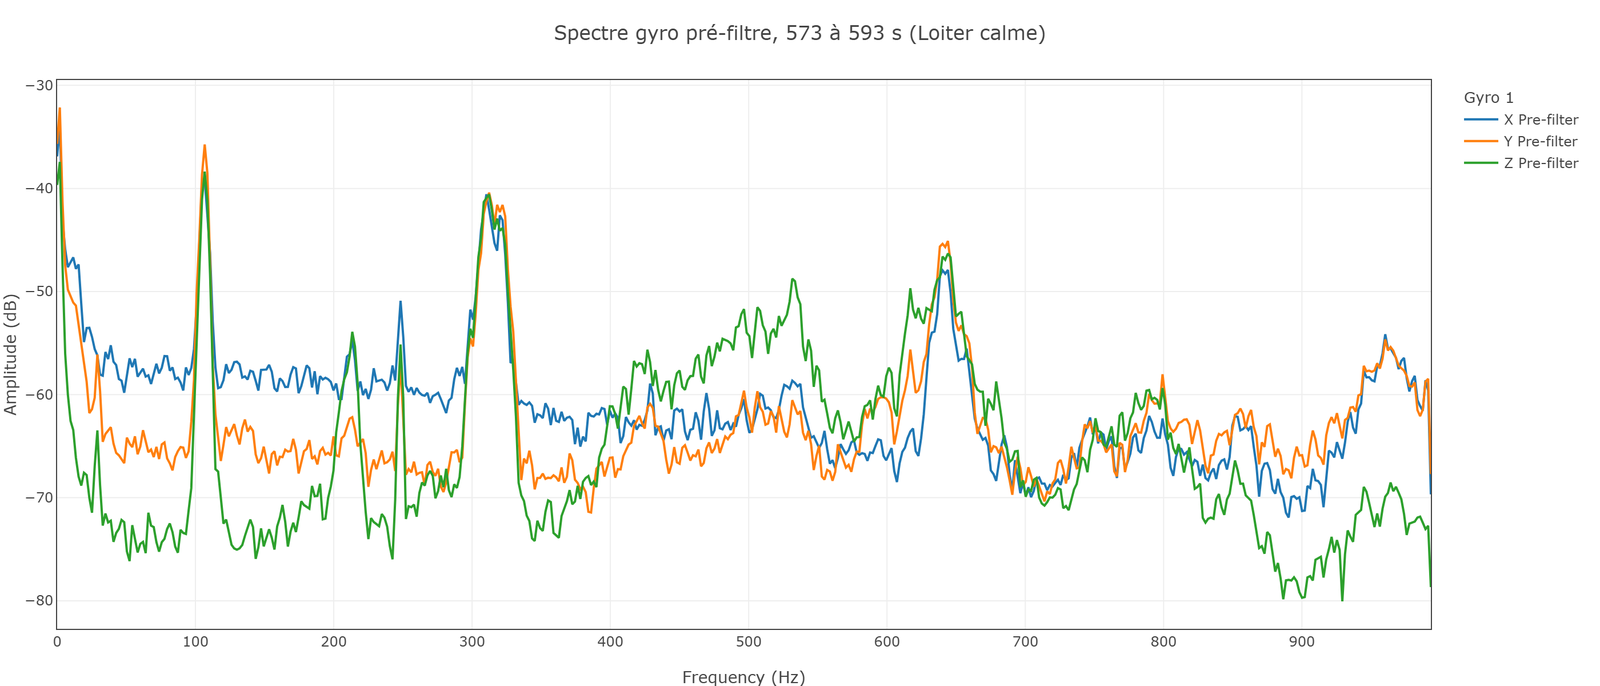
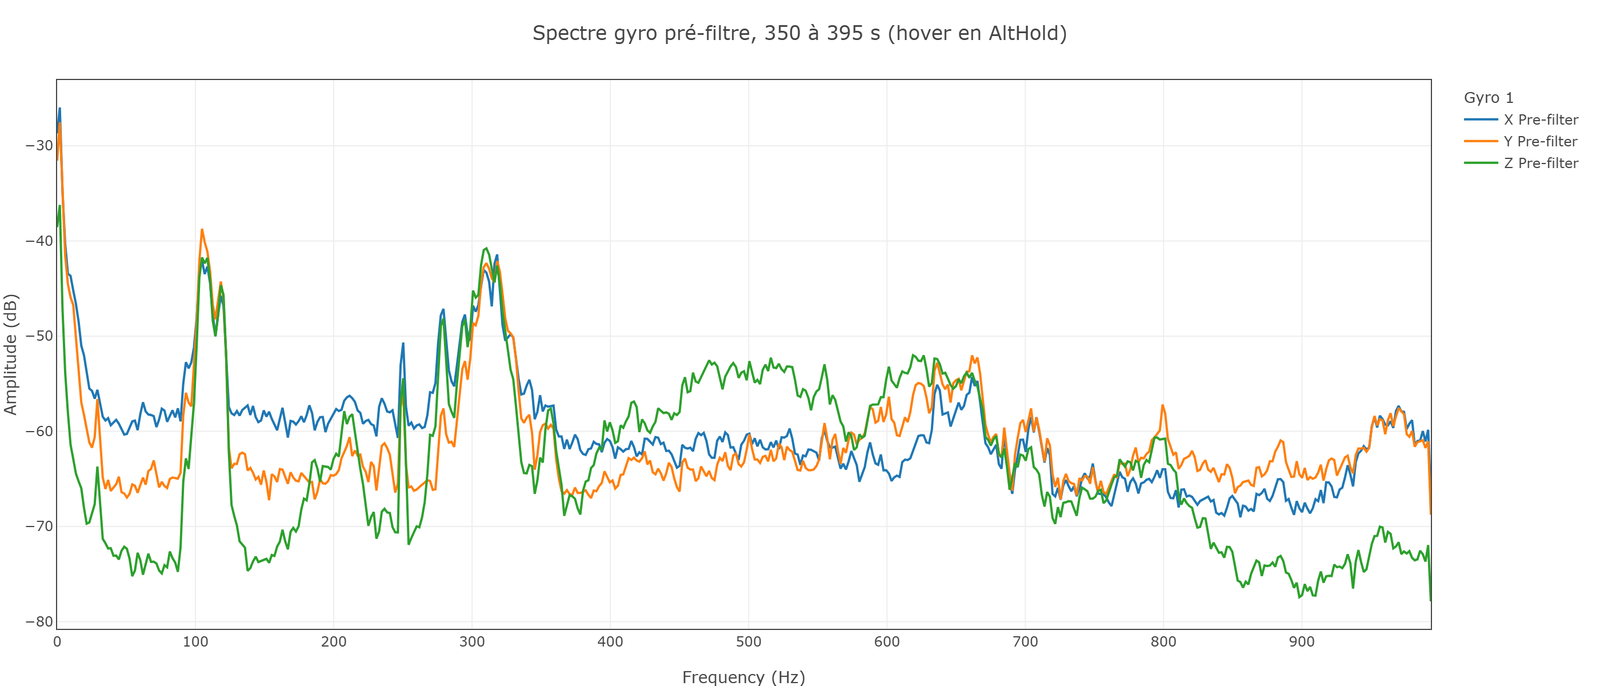
Formation 9 : filtres sur le hover en AltHold (350 à 395 s), plancher du notch à 100 Hz

Changed region(s): [[0.0312, 0.2143, 0.9062, 0.8878], [0.3125, 0.0306, 0.6875, 0.0612]]

diff --git a/9-tuning/9.2-vibrations-et-filtres.md b/9-tuning/9.2-vibrations-et-filtres.md
@@ -27,7 +27,7 @@ Prérequis : la formation 9.1, et en particulier le RPM des moteurs (section 5.3
 
 ## 1 - Pourquoi filtrer, pourquoi pas trop
 
-Les moteurs tournent, les hélices battent l'air, et la structure vibre à la fréquence de rotation et à ses multiples. L'IMU est fixée sur la structure : le gyroscope mesure, en plus de la rotation du drone, un tremblement permanent vers 107 Hz (les moteurs du Crash Proof en hover, 9.1 section 5.3), à ses multiples, plus les résonances du châssis, des fils et des antennes. Sans filtre, le contrôleur de rate prend ce tremblement pour une rotation et essaie de le corriger ; le D, qui réagit à la vitesse de variation, est le plus touché.
+Les moteurs tournent, les hélices battent l'air, et la structure vibre à la fréquence de rotation et à ses multiples. L'IMU est fixée sur la structure : le gyroscope mesure, en plus de la rotation du drone, un tremblement permanent vers 106 Hz (les moteurs du Crash Proof en hover, 9.1 section 5.3), à ses multiples, plus les résonances du châssis, des fils et des antennes. Sans filtre, le contrôleur de rate prend ce tremblement pour une rotation et essaie de le corriger ; le D, qui réagit à la vitesse de variation, est le plus touché.
 
 Mais un filtre n'est pas gratuit. Il lisse le signal, et lisser prend du temps : la mesure filtrée est **en retard** sur la réalité. Ce retard se mesure en degrés de phase. Un drone trop filtré réagit en retard à tout.
 
@@ -47,13 +47,15 @@ Dans Filter Review, une fois le log chargé, la vue d'ensemble montre le throttl
 - **un hover calme**, sans commandes du pilote, throttle constant ;
 - **au moins 20 à 30 secondes**.
 
-Le 27 octobre, la seule portion qui s'en approche est le Loiter de **573 à 593 s** : 20 secondes sans toucher aux sticks, mais entre 1,2 et 2,8 m du sol, là où le souffle des hélices rebondit. C'est le défaut de ce vol, et c'est la première ligne de la liste « ce que le prochain vol doit contenir » : 30 à 40 secondes de hover calme, plus haut.
+Le 27 octobre, la meilleure portion est le hover en AltHold de **350 à 395 s**, juste avant les coups de stick : 45 secondes à 1,5 m, altitude tenue par le contrôleur. Le pilote y fait de petites corrections (les sticks bougent de 50 à 100 µs autour du centre), mais elles ne demandent jamais plus de 20 degrés par seconde : c'est un hover calme. Ce qui compte n'est pas que les sticks soient parfaitement immobiles, c'est qu'aucun mouvement franc ne soit commandé.
+
+Un seul défaut : 1,5 m, c'est près du sol, où le souffle des hélices rebondit. Au prochain vol, on fera le même hover un peu plus haut, à 5 m.
 
 ![Filter Review, vue d'ensemble du vol](images/9.2-01-selection-loiter-calme.png)
 
 Pourquoi le hover ? Parce que Zenith passe l'essentiel de ses vols en hover : c'est là que les vibrations comptent. On centre les filtres sur le hover, et le notch suit le RPM quand il change.
 
-Entrez 573 et 593, cliquez **Calculate**.
+Entrez 350 et 395, cliquez **Calculate**.
 
 ---
 
@@ -61,19 +63,19 @@ Entrez 573 et 593, cliquez **Calculate**.
 
 Trois courbes sont proposées : **pre-filter** (ce que le gyroscope mesure), **post-filter** (ce qui arrive vraiment au contrôleur ; grisé ici, faute du bit post-filtre, 9.1 section 2.3) et **estimated post-filter** (l'effet des filtres calculé par l'outil, très proche du réel). Affichez pre-filter seul.
 
-![Spectre pré-filtre, 573 à 593 s](images/9.2-02-spectre-pre-filtre.png)
+![Spectre pré-filtre, 350 à 395 s](images/9.2-02-spectre-pre-filtre.png)
 
 **Avant de lire la suite : qu'est-ce que vous voyez ?**
 
 <details>
 <summary>Réponse</summary>
 
-- Un pic net vers **107 Hz**, à moins 36 dB : la rotation des moteurs (6 420 tr/min divisés par 60). C'est le RPM de la fiche de santé.
-- Une bosse vers **310 à 320 Hz**, à moins 41 dB : la troisième harmonique (3 × 107 = 321). Les hélices ont trois pales, ou une résonance tombe là.
-- Une bosse vers **640 Hz**, à moins 45 dB : la sixième harmonique, ou le double de la troisième.
-- Des petits pics ailleurs (215, 250 Hz) : fils, tie-wraps, antennes. Pas nécessaire de savoir quoi est quoi.
+- Un pic net vers **105 Hz**, à moins 39 dB : la rotation des moteurs (environ 6 400 tr/min divisés par 60). C'est le RPM de la fiche de santé.
+- Une bosse vers **310 Hz**, à moins 41 dB : la troisième harmonique (3 × 105 = 315). Les hélices ont trois pales, ou une résonance tombe là.
+- Une bosse vers **620 Hz**, à moins 52 dB : déjà sous la cible.
+- Des petits pics ailleurs : fils, tie-wraps, antennes. Pas nécessaire de savoir quoi est quoi.
 
-Ce qui compte : **ce qui dépasse moins 50 dB**. Ici, les trois bosses.
+Ce qui compte : **ce qui dépasse moins 50 dB**. Ici, le pic moteur et sa troisième harmonique.
 
 </details>
 
@@ -90,7 +92,7 @@ Affichez maintenant aussi « estimated post-filter », avec les paramètres du l
 <details>
 <summary>Réponse</summary>
 
-Tout est écrasé sous moins 60 dB, jusqu'à moins 95 au-dessus de 300 Hz. On a retiré bien plus que nécessaire, et on le paie en retard.
+Tout est écrasé : moins 62 dB pour le pic moteur, moins 86 pour l'harmonique, moins 95 au-dessus. On a retiré bien plus que nécessaire, et on le paie en retard.
 
 Le coupable est le **passe-bas gyro** : `INS_GYRO_FILTER` vaut 42 Hz. Un passe-bas coupe tout ce qui est au-dessus de sa fréquence : à 42 Hz, il efface le spectre entier et impose son retard à toutes les fréquences de contrôle. Cette valeur devait passer à 400 Hz après les vols d'août ; elle ne l'a jamais été. C'est l'erreur qui se fait le plus souvent : un paramètre décidé en séance et jamais chargé (section 7).
 
@@ -116,7 +118,7 @@ Mettez `INS_GYRO_FILTER` à **400** dans la configuration et cliquez **Recalcula
 <details>
 <summary>Réponse</summary>
 
-Presque. La troisième harmonique passe à moins 53 dB, la bosse de 640 Hz à moins 59 : c'est bon. Mais le pic du moteur, vers 105 à 107 Hz, reste à **moins 46 dB**. Le notch est là, et pourtant il ne fait pas son travail. Cochez « show notch » : la ligne du notch est à **111 Hz**, à droite du pic.
+Presque. La troisième harmonique passe à moins 54 dB, la bosse de 620 Hz à moins 64 : c'est bon. Mais le pic du moteur, vers 105 Hz, reste à **moins 46 dB**. Le notch est là, et pourtant il ne fait pas son travail. Cochez « show notch » : la ligne du notch est à **111 Hz**, à droite du pic.
 
 </details>
 
@@ -139,28 +141,37 @@ Le Crash Proof est déjà en mode 3, avec les options (`INS_HNTCH_OPTS` 14) : un
 
 ### 6.2 - Pourquoi le notch reste à 111 Hz
 
-Regardez le spectrogramme (fréquence contre temps). Les traits verts de la troisième harmonique bougent avec les moteurs. Le trait orange de la fondamentale, lui, est **parfaitement plat à 111 Hz**.
+Regardez le spectrogramme (fréquence contre temps). Les traits verts de la troisième harmonique bougent avec les moteurs. Le trait orange de la fondamentale, lui, suit les moteurs tant qu'ils tournent au-dessus de 111 Hz (avant 362 s), puis devient **parfaitement plat à 111 Hz**.
 
-![Spectrogramme : la fondamentale plate à 111 Hz, l'harmonique qui suit le RPM](images/9.2-07-spectrogramme.png)
+![Spectrogramme : la fondamentale bloquée à 111 Hz, l'harmonique qui suit le RPM](images/9.2-07-spectrogramme.png)
 
-En mode télémétrie ESC, `INS_HNTCH_FREQ` n'est plus la fréquence du notch : c'est **son plancher**. Le notch suit le RPM, mais ne descend jamais sous `INS_HNTCH_FREQ`. Réglé à 111 Hz d'après le hover des vols d'août, il bloque le notch à 111 alors que les moteurs tournent ici entre 104 et 108 Hz (batterie, température, charge différentes). L'harmonique 3, elle, est au-dessus de son plancher (3 × 111 = 333) seulement par moments, d'où ses traits qui bougent.
+En mode télémétrie ESC, `INS_HNTCH_FREQ` n'est plus la fréquence du notch : c'est **son plancher**. Le notch suit le RPM, mais ne descend jamais sous `INS_HNTCH_FREQ`. Réglé à 111 Hz d'après le hover des vols d'août, il bloque le notch à 111 alors que les moteurs tournent ici autour de 106 Hz en hover, et descendent par moments vers 93 Hz (batterie, température, charge différentes). 
 
-La règle : **`INS_HNTCH_FREQ` se met un peu sous la fréquence de hover la plus basse qu'on attend**, pas dessus.
+> [!NOTE]
+> **Ce qu'on ne sait pas bien.** Si la fondamentale est bloquée à 111 Hz, on s'attendrait à voir l'harmonique bloquée à 3 × 111 = 333 Hz. Or ses traits verts continuent de bouger. On ne sait pas si c'est Filter Review qui la dessine ainsi ou le firmware qui la calcule autrement. Ça ne change pas la conclusion : le pic moteur, lui, n'est pas couvert.
+
+La règle : **`INS_HNTCH_FREQ` se met sous la fréquence de hover la plus basse qu'on attend**, pas dessus.
 
 ### 6.3 - Fréquence, bandwidth, atténuation
 
 Réglez, en recalculant à chaque étape :
 
-1. **Fréquence** (`INS_HNTCH_FREQ`) : sous le pic lu sur le spectre. Essayez **107**.
+1. **Fréquence** (`INS_HNTCH_FREQ`) : le plancher, sous le pic lu sur le spectre. Essayez 107, puis 104, puis 100.
 2. **Bandwidth** (`INS_HNTCH_BW`) : la largeur. On part du quart de la fréquence, puis on rétrécit tant que le pic reste couvert. 12 convient ici.
 3. **Atténuation** (`INS_HNTCH_ATT`) : la profondeur, en dB. On la garde juste assez pour passer sous moins 50. 6 convient ici.
 
-| Essai | Fondamentale | 3e harmonique | Verdict |
+| Essai (BW 12, ATT 6, passe-bas 400) | Autour du pic moteur | 3e harmonique | Verdict |
 |---|---|---|---|
-| 111 Hz, BW 12, ATT 6, passe-bas 400 | moins 46 dB | moins 53 dB | le pic moteur dépasse |
-| **107 Hz, BW 12, ATT 6, passe-bas 400** | **moins 54 dB** | **moins 53 dB** | **tout juste sous moins 50 : on arrête** |
+| plancher 111 Hz (le vol) | moins 46 dB | moins 54 dB | le pic moteur dépasse |
+| plancher 107 Hz | moins 51,5 dB | moins 54 dB | tout juste, mais le notch décroche encore quand un moteur ralentit |
+| plancher 104 Hz | moins 54 dB | moins 54 dB | le pic a disparu |
+| **plancher 100 Hz** | **moins 53 dB** | **moins 54 dB** | **pareil, avec de la marge sous le hover : on garde** |
 
-![Réglage proposé : notch à 107 Hz, passe-bas 400 Hz](images/9.2-06-reglage-propose.png)
+À 104 et à 100 Hz, le maximum restant autour du pic n'est plus le moteur : c'est un petit pic voisin vers 118 Hz. Le spectrogramme le confirme : le notch suit maintenant chaque moteur.
+
+![Réglage proposé : plancher du notch à 100 Hz, passe-bas 400 Hz](images/9.2-06-reglage-propose.png)
+
+![Spectrogramme, réglage proposé : le notch suit le RPM](images/9.2-10-spectrogramme-propose.png)
 
 ### 6.4 - Les harmoniques (`INS_HNTCH_HMNCS`)
 
@@ -174,13 +185,13 @@ Comparez la courbe de phase avant et après :
 
 ![Amplitude et phase, réglage proposé](images/9.2-09-phase-apres.png)
 
-| Fréquence | Paramètres du vol (passe-bas 42 Hz) | Réglage proposé (passe-bas 400 Hz, notch 107) |
+| Fréquence | Paramètres du vol (passe-bas 42 Hz) | Réglage proposé (passe-bas 400 Hz, plancher du notch 100 Hz) |
 |---|---|---|
-| 50 Hz | environ moins 115 degrés | environ moins 18 degrés |
-| 100 Hz | environ moins 200 degrés | environ moins 70 degrés |
+| 50 Hz | environ moins 115 degrés | environ moins 20 degrés |
+| 100 Hz | environ moins 200 degrés | environ moins 75 degrés |
 
 > [!NOTE]
-> **Ce qu'on ne sait pas bien.** La phase seule ne dit pas où est la limite acceptable : il faudrait la rapporter à la bande passante du contrôleur, et l'équipe n'a pas cette expérience. La lecture est comparative : de moins 115 à moins 18 degrés à 50 Hz, le contrôleur voit le drone avec beaucoup moins de retard. Le signe qu'un problème de phase existe : un drone instable dont tous les PID ont l'air bons.
+> **Ce qu'on ne sait pas bien.** La phase seule ne dit pas où est la limite acceptable : il faudrait la rapporter à la bande passante du contrôleur, et l'équipe n'a pas cette expérience. La lecture est comparative : de moins 115 à moins 20 degrés à 50 Hz, le contrôleur voit le drone avec beaucoup moins de retard. Le signe qu'un problème de phase existe : un drone instable dont tous les PID ont l'air bons.
 
 ---
 
@@ -198,7 +209,7 @@ C'est l'étape qui se rate le plus souvent, et ce vol en est la preuve : le pass
 | Paramètre | Pendant le vol | Hypothèse pour le prochain vol |
 |---|---|---|
 | `INS_GYRO_FILTER` | 42 Hz | 400 Hz, à surveiller (micro-oscillations, température moteur) |
-| `INS_HNTCH_FREQ` | 111 Hz | 107 Hz, ou un peu moins (plancher sous le hover) |
+| `INS_HNTCH_FREQ` | 111 Hz | 100 Hz (plancher sous le hover le plus lent) |
 | `INS_HNTCH_BW`, `INS_HNTCH_ATT` | 12, 6 dB | inchangés |
 | `INS_HNTCH_HMNCS`, `INS_HNTCH_MODE`, `INS_HNTCH_OPTS` | 5, 3, 14 | inchangés |
 | `INS_LOG_BAT_OPT` | 0 | bit post-filtre, pour voir le vrai post-filtre au prochain vol |

diff --git a/9-tuning/9.1-lire-un-log.md b/9-tuning/9.1-lire-un-log.md
@@ -99,8 +99,8 @@ Un log ne sert au tuning que si le vol a été fait pour ça. Le vol du 27 octob
 
 | Phase | Temps (s) | Mode | Ce que fait le pilote | Pour quoi |
 |---|---|---|---|---|
-| 1. Les axes un à un | 333 à 480 | AltHold | Coups de stick francs en roll, puis pitch, puis yaw | Lire les rates (9.3) |
-| 2. Hover calme | 573 à 593 | Loiter | Rien, sticks au centre | Les filtres (9.2) |
+| 1. Hover calme | 350 à 395 | AltHold | Rien de franc, petites corrections | Les filtres (9.2) |
+| 2. Les axes un à un | 395 à 470 | AltHold | Coups de stick francs en roll, puis pitch, puis yaw, deux fois | Lire les rates (9.3) |
 | 3. Les réglages | 736 à 1 068 | AltHold | Un gain changé en vol, puis des coups de stick, six fois de suite | Comparer des réglages (9.3, 9.4) |
 | 4. Le vol libre | 1 084 à 1 358 | Loiter | Grands angles, jusqu'à 62 degrés | Voir les limites (9.4) |
 
@@ -108,11 +108,11 @@ Trois choses à retenir de ce découpage :
 
 - **Les modes montent un à un.** Sur un drone qu'on ne connaît pas, on vérifie d'abord qu'il tient en l'air, puis on ajoute un étage de la chaîne à la fois. Ici, le tuning des rates se fait en **AltHold** : le contrôleur tient l'altitude, le pilote n'a plus que les coups de stick en tête. Stabilize marche aussi ; Loiter est à éviter pour les rates, parce que la chaîne horizontale réagit aux coups de stick et brouille la lecture.
 - **Un axe à la fois.** Le stick va d'un côté à l'autre, franchement, et le pilote le garde en main : on ne le lâche pas pour qu'il revienne au centre comme un ressort, ça fausse les données.
-- **Batteries pleines.** Le voltage donne la poussée, la poussée donne l'autorité. Le 27 octobre, la phase 1 est faite à 49,3 V, la phase 3 entre 45,9 et 44,4 V. Il faut s'en souvenir en comparant les deux.
+- **Batteries pleines.** Le voltage donne la poussée, la poussée donne l'autorité. Le 27 octobre, les phases 1 et 2 sont faites à 49,3 V, la phase 3 entre 45,9 et 44,4 V. Il faut s'en souvenir en comparant les deux.
 
 ### 2.2 - Ce qui manquait à ce vol
 
-Un vol type n'est pas un vol parfait. Le hover calme de la phase 2 ne dure que 20 secondes, et à moins de 3 m du sol ; on en voudrait 30 à 40, plus haut. On le voit en 9.2.
+Un vol type n'est pas un vol parfait. Le hover calme de la phase 1 dure 45 secondes, ce qui suffit, mais à 1,5 m du sol, là où le souffle des hélices rebondit ; on le voudrait vers 5 m. On le voit en 9.2.
 
 ### 2.3 - Les paramètres de journalisation
 
@@ -207,7 +207,7 @@ Le clipping compte les fois où l'accéléromètre a dépassé sa plage de mesur
 
 ### 5.3 - Moteurs et ESC
 
-- **Le RPM fait-il du sens ?** Pendant le hover de 573 à 593 s, les quatre moteurs tournent entre 6 260 et 6 500 tr/min. Divisé par 60 : **104 à 108 Hz**. C'est le gros pic que vous verrez dans Filter Review. Si le RPM lu était le double ou la moitié de l'attendu, `SERVO_BLH_POLES` serait faux, et on le corrigerait **avant** les filtres.
+- **Le RPM fait-il du sens ?** Pendant le hover de 350 à 395 s, les quatre moteurs tournent en médiane entre 6 360 et 6 480 tr/min. Divisé par 60 : **106 à 108 Hz**, avec des creux vers 93 Hz quand un moteur ralentit pour corriger. C'est le gros pic que vous verrez dans Filter Review. Si le RPM lu était le double ou la moitié de l'attendu, `SERVO_BLH_POLES` serait faux, et on le corrigerait **avant** les filtres.
 - **RPM contre sortie PWM** : pendant les coups de stick du premier vol (395 à 470 s), `ESC[0].RPM` et `RCOU.C1` (même moteur) ont la même forme. Si les formes divergent, un ESC ou un câblage a un problème.
 
 ![ESC RPM et RCOU du même moteur](images/9.1-08-esc-rpm-rcou.png)

diff --git a/9-tuning/solutions/journal-vol-tuning-2026-10-27.md b/9-tuning/solutions/journal-vol-tuning-2026-10-27.md
@@ -6,7 +6,7 @@
 
 - ArduCopter 4.6.3, MatekH743-bdshot, quadricoptère, batterie 12S (49,5 V au premier armement), DShot bidirectionnel, pas de rangefinder.
 - Environ 24 minutes, 13 armements, un seul fichier (`LOG_FILE_DSRMROT` à 0).
-- Phases : coups de stick roll, pitch, yaw en AltHold (333 à 480 s) ; hover calme en Loiter (573 à 593 s) ; vol libre (658 à 717 s) ; sept réglages de `ATC_RAT_RLL_P` en AltHold (736 à 972 s) ; `ATC_ANG_PIT_P` à 3,0 (982 à 1 068 s) ; vol agressif en Loiter (1 084 à 1 358 s) ; deux vols courts et failsafe batterie (1 445 à 1 549 s).
+- Phases : coups de stick roll, pitch, yaw en AltHold (333 à 480 s) ; hover calme en AltHold (350 à 395 s) ; vol libre (658 à 717 s) ; sept réglages de `ATC_RAT_RLL_P` en AltHold (736 à 972 s) ; `ATC_ANG_PIT_P` à 3,0 (982 à 1 068 s) ; vol agressif en Loiter (1 084 à 1 358 s) ; deux vols courts et failsafe batterie (1 445 à 1 549 s).
 - Paramètres changés en vol : `ATC_RAT_RLL_P` (six fois), `ATC_ANG_PIT_P` (deux fois), `ANGLE_MAX` 30 → 60 → 80 degrés, `LAND_ALT_LOW`, `LAND_SPEED_HIGH`, `RTL_ALT` 20 → 10 m.
 
 ## 2 - Fiche de santé
@@ -22,7 +22,7 @@
 | Paramètres changés en vol | voir section 1 | |
 | VIBE (IMU 0) | moyennes X 1,2, Y 1,0, Z 1,5 m/s² ; max 14 m/s² à 1 247 s | sain |
 | Clip | 0 | sain |
-| RPM en hover | 6 260 à 6 500 tr/min, soit 104 à 108 Hz | cohérent avec le pic du spectre |
+| RPM en hover | médianes 106 à 108 Hz, creux vers 93 Hz | cohérent avec le pic du spectre |
 | Pôles | 14 | cohérent |
 | Température ESC | 34 °C max | sain |
 | Batterie | 49,5 V au départ, 41,5 V à la fin ; failsafe batterie à 1 544 s (41,3 V) | sain ; vol mené jusqu'au seuil |
@@ -35,16 +35,16 @@
 
 **Verdict : sain, données fiables pour le tuning.** Deux corrections hors tuning (seuil d'armement, moniteur de courant), deux réglages de journalisation à corriger.
 
-## 3 - Filtres (Filter Review, 573 à 593 s)
+## 3 - Filtres (Filter Review, 350 à 395 s)
 
 | Paramètre | Pendant le vol | Hypothèse |
 |---|---|---|
 | `INS_GYRO_FILTER` | 42 Hz | 400 Hz, à surveiller |
-| `INS_HNTCH_FREQ` | 111 Hz | 107 Hz (le plancher doit être sous le hover) |
+| `INS_HNTCH_FREQ` | 111 Hz | 100 Hz (le plancher doit être sous le hover le plus lent) |
 | `INS_HNTCH_MODE`, `_OPTS`, `_BW`, `_ATT`, `_HMNCS` | 3, 14, 12, 6, 5 | inchangés |
 | `INS_LOG_BAT_OPT` | 0 | bit post-filtre |
 
-Observation : pics pré-filtre à 107 Hz (moins 36 dB), 310 à 320 Hz (moins 41) et 640 Hz (moins 45). Avec les paramètres du vol, tout est écrasé sous moins 60 dB par le passe-bas à 42 Hz (phase environ moins 115 degrés à 50 Hz). Passe-bas à 400 Hz : le pic moteur remonte à moins 46 dB, parce que le notch reste bloqué à son plancher de 111 Hz (spectrogramme). Notch à 107 Hz : moins 54 et moins 53 dB, phase environ moins 18 degrés à 50 Hz.
+Observation : pics pré-filtre à 105 Hz (moins 39 dB) et 310 Hz (moins 41) ; 620 Hz déjà à moins 52. Avec les paramètres du vol, tout est écrasé par le passe-bas à 42 Hz (moins 62 dB sur le pic moteur ; phase environ moins 115 degrés à 50 Hz). Passe-bas à 400 Hz : le pic moteur remonte à moins 46 dB, parce que le notch reste bloqué à son plancher de 111 Hz (spectrogramme). Plancher à 107 Hz : moins 51,5 dB ; à 104 ou 100 Hz, le pic disparaît (moins 53 dB au plus autour) et le notch suit chaque moteur ; phase environ moins 20 degrés à 50 Hz.
 
 ## 4 - Rates (PID Review)
 

diff --git a/9-tuning/IMAGES.md b/9-tuning/IMAGES.md
@@ -22,13 +22,14 @@ Pour refaire une image : charger le log dans l'outil, régler la plage de temps 
 | Fichier | Outil | Contenu |
 |---|---|---|
 | `9.2-01-selection-loiter-calme.png` | Filter Review | Vue d'ensemble du vol |
-| `9.2-02-spectre-pre-filtre.png` | Filter Review | Spectre pré-filtre, 573 à 593 s |
+| `9.2-02-spectre-pre-filtre.png` | Filter Review | Spectre pré-filtre, 350 à 395 s (hover en AltHold) |
 | `9.2-03-post-filtre-parametres-du-vol.png` | Filter Review | Pré-filtre et post-filtre estimé, paramètres du vol (passe-bas 42 Hz) |
 | `9.2-05-passe-bas-400.png` | Filter Review | Passe-bas à 400 Hz, notch d'origine (111 Hz) affiché |
-| `9.2-06-reglage-propose.png` | Filter Review | Notch à 107 Hz, passe-bas 400 Hz |
+| `9.2-06-reglage-propose.png` | Filter Review | Plancher du notch à 100 Hz, passe-bas 400 Hz |
 | `9.2-07-spectrogramme.png` | Filter Review | Spectrogramme, notch fondamental plat à 111 Hz, harmonique 3 qui suit le RPM |
 | `9.2-08-phase-avant.png` | Filter Review | Amplitude et phase des filtres du vol |
 | `9.2-09-phase-apres.png` | Filter Review | Amplitude et phase du réglage proposé |
+| `9.2-10-spectrogramme-propose.png` | Filter Review | Spectrogramme avec le réglage proposé : le notch suit chaque moteur |
 
 ## 9.3 les rates
 

diff --git a/9-tuning/logs/README.md b/9-tuning/logs/README.md
@@ -18,8 +18,8 @@ Si le fichier téléchargé porte son nom d'origine, `2026-10-27 14-15-12.bin`, 
 | Temps (s) | Mode | Ce qui se passe |
 |---|---|---|
 | 146 à 332 | Stabilize, au sol | Contrôleur allumé, drone désarmé. |
-| 333 à 480 | AltHold | **Premier vol : coups de stick en roll, puis pitch, puis yaw**, avec les réglages de départ. Batterie à 49,3 V. |
-| 494 à 642 | AltHold, puis Loiter | Deux vols courts ; hover calme en Loiter de 573 à 593 s (filtres). |
+| 333 à 480 | AltHold | **Premier vol : hover calme de 350 à 395 s (filtres), puis coups de stick en roll, pitch, yaw** (395 à 470 s), avec les réglages de départ. Batterie à 49,3 V. |
+| 494 à 642 | AltHold, puis Loiter | Deux vols courts. |
 | 658 à 717 | Stabilize, Loiter, AltHold | Vol plus libre, jusqu'à 12 m, gaz à fond en Stabilize à 699 s. |
 | 736 à 972 | AltHold | **Le cas d'étude : `ATC_RAT_RLL_P` changé en vol six fois** (0,07, 0,098, 0,13, 0,04, 0,05, 0,03, puis retour à 0,07), avec des coups de roll après chaque changement. |
 | 982 à 1 068 | AltHold | `ATC_ANG_PIT_P` passé de 4,05 à 3,0, coups de pitch, puis retour à 4,05. |

diff --git a/9-tuning/9.4-chaine-complete-et-demarche.md b/9-tuning/9.4-chaine-complete-et-demarche.md
@@ -164,7 +164,7 @@ Une ligne par contrôleur et par vol. La colonne « résultat au vol suivant » 
 
 | Vol | Contrôleur | Observation | Hypothèse (paramètre, sens, %) | Appliqué ? | Résultat au vol suivant |
 |---|---|---|---|---|---|
-| 27 oct. | Filtres | passe-bas à 42 Hz (sur-filtré) ; notch bloqué à 111 Hz, pic à 107 | `INS_GYRO_FILTER` 400 ; `INS_HNTCH_FREQ` 107 | | |
+| 27 oct. | Filtres | passe-bas à 42 Hz (sur-filtré) ; notch bloqué à 111 Hz, moteurs à 106 Hz | `INS_GYRO_FILTER` 400 ; `INS_HNTCH_FREQ` 100 | | |
 | 27 oct. | Rate roll | 7 réglages : 0,07 plafonne à 0,83, 0,13 oscille à 14 Hz | `ATC_RAT_RLL_P` 0,085 (plus 20 %) | | |
 | 27 oct. | Rate pitch | 0,85 au départ, comme le roll | `ATC_RAT_PIT_P` 0,085, à vérifier | | |
 | 27 oct. | Rate yaw | plafonne à 0,77 | `ATC_RAT_YAW_P` plus 30 % par étapes, marge moteur à surveiller | | |

diff --git a/9-tuning/9.3-les-rates.md b/9-tuning/9.3-les-rates.md
@@ -46,11 +46,11 @@ Deux règles :
 - **Jamais une zone au sol.** Le drone n'y suit aucune consigne ; le résultat est n'importe quoi.
 - **La zone des coups de stick, un axe à la fois**, puis **Calculate**.
 
-Choisissez **PIDR** (le rate roll), entrez 333 et 479 dans « Analysis time » (la phase 1 du vol, 9.1 section 2.1), cliquez **Calculate**. Recommencez avec **PIDP** et **PIDY**.
+Choisissez **PIDR** (le rate roll), entrez 333 et 479 dans « Analysis time » (le premier vol : le hover puis les coups de stick, phases 1 et 2 de 9.1 section 2.1), cliquez **Calculate**. Recommencez avec **PIDP** et **PIDY**.
 
 ---
 
-## 3 - Phase 1 : les trois axes avec les réglages de départ
+## 3 - Phase 2 : les trois axes avec les réglages de départ
 
 ### 3.1 - Le time domain
 
